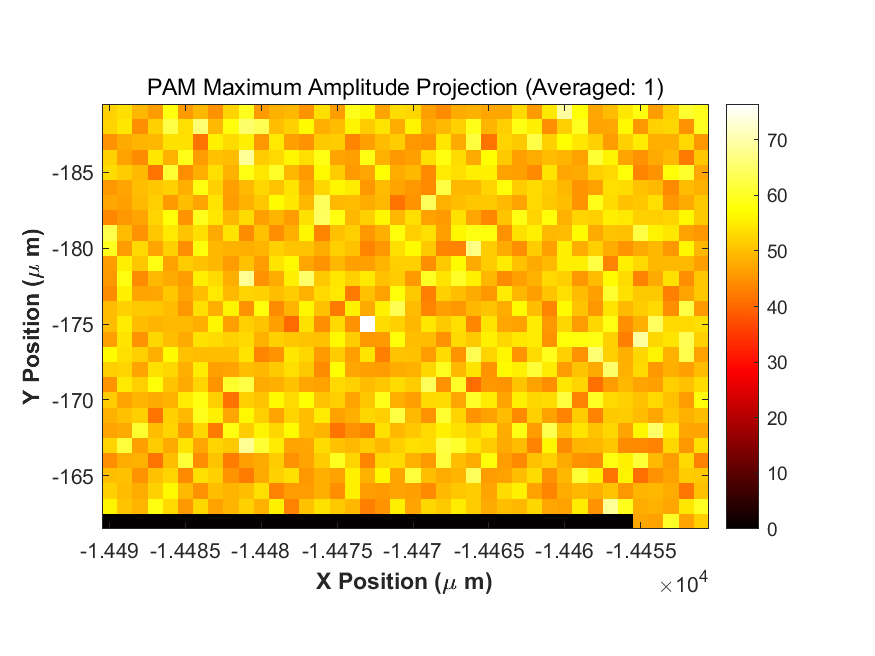
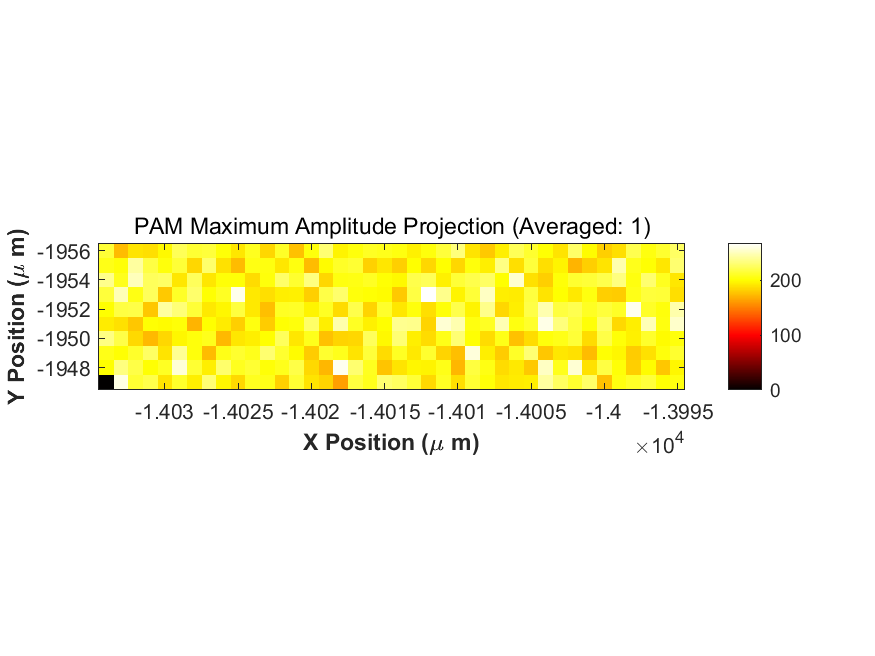
trigger_change_to_1V

diff --git a/MATLAB/data_analysis.m b/MATLAB/data_analysis.m
@@ -1,113 +1,84 @@
 function signalBrowser()
-% 交互式信号浏览工具，通过左右方向键切换100个信号并实时绘图
-
-% ========== 新增：强制设置图形渲染器 ==========
-% 先重置图形设置
+% 交互式信号浏览工具：6子图版（含线性与dB频谱）
+% ========== 环境设置 ==========
 set(0, 'DefaultFigureRenderer', 'painters');
-% 关闭Java加速（部分版本兼容问题）
-com.mathworks.services.Prefs.setBooleanPref('JavaFrameFeature加速', false);
-% =============================================
-
+try
+    com.mathworks.services.Prefs.setBooleanPref('JavaFrameFeature加速', false);
+catch
+end
 clear; close all; clc;
 
 % --------------------- 1. 核心参数设置 ---------------------
 Fs = 2e9;          % 采样率：2 GHz
 T = 1/Fs;          % 采样周期
 
-% --------------------- 2. 从工作区加载 raw_data ---------------------
-% 尝试从基础工作区获取 raw_data 变量
+% --------------------- 2. 加载数据 ---------------------
 try
     raw_data = evalin('base', 'raw_data');
 catch
-    error('在工作区中未找到变量 raw_data。请先加载数据。');
+    error('在工作区中未找到变量 raw_data。');
 end
 
-% 检查维度
-expectedSize = [100, 1, 2048];
-if ~isequal(size(raw_data), expectedSize)
-    error('raw_data 的维度应为 [100, 1, 2048]，但实际为 [%s]', num2str(size(raw_data)));
-end
-
-numSignals = size(raw_data, 1);  % 应为100
+numSignals = size(raw_data, 1);
 allSignals = cell(numSignals, 1);
 for i = 1:numSignals
-    x = squeeze(raw_data(i, 1, :));  % 提取第i个信号，2048x1 uint16
-    x = double(x);                    % 转换为 double
-    x = (x - 32768) / 65536;          % 归一化到约 [-0.5, 0.5]
-    allSignals{i} = x(:);              % 确保为列向量
+    x = squeeze(raw_data(i, 1, :));
+    x = double(x);
+    x = (x - 32768) / 65536; 
+    allSignals{i} = x(:);
 end
-% -----------------------------------------------------------------
 
-% 初始化当前索引
+% --------------------- 3. 图形初始化 ---------------------
 currentIdx = 1;
-
-% ========== 优化：显式设置图形可见性 ==========
-fig = figure('Name', '信号浏览器 (左右键切换)', ...
+fig = figure('Name', '信号浏览器 (左右键切换) - 6子图版', ...
              'NumberTitle', 'off', ...
              'KeyPressFcn', @keyPressCallback, ...
-             'Position', [100, 100, 1200, 800], ...
-             'Visible', 'on', ...  % 强制可见
-             'Renderer', 'painters');  % 强制渲染器
-% =============================================
+             'Position', [50, 50, 1400, 900], ...
+             'Color', 'white');
 
-% 预先创建四个子图的坐标轴句柄，方便更新数据而不重复创建
-ax1 = subplot(2,2,1);
-h1 = plot(NaN, NaN);  % 占位线条
-xlabel('时间 (μs)'); ylabel('幅值'); title('原始时域信号（含直流）'); grid on;
+% 布局改为 3行2列
+% 第一行：时域
+ax1 = subplot(3,2,1); h1 = plot(NaN, NaN); grid on;
+xlabel('时间 (μs)'); ylabel('幅值'); title('原始时域信号');
+ax2 = subplot(3,2,2); h2 = plot(NaN, NaN); grid on;
+xlabel('时间 (μs)'); ylabel('幅值'); title('滤波后时域信号');
 
-ax2 = subplot(2,2,2);
-h2 = plot(NaN, NaN);
-xlabel('时间 (μs)'); ylabel('幅值'); title('滤波后时域信号（无直流）'); grid on;
+% 第二行：线性频域
+ax3 = subplot(3,2,3); h3 = plot(NaN, NaN); grid on;
+xlabel('频率 (MHz)'); ylabel('归一化幅度'); title('原始频谱 (线性)');
+ax4 = subplot(3,2,4); h4 = plot(NaN, NaN); grid on;
+xlabel('频率 (MHz)'); ylabel('归一化幅度'); title('滤波频谱 (线性)');
 
-ax3 = subplot(2,2,3);
-h3 = plot(NaN, NaN);
-xlabel('频率 (MHz)'); ylabel('归一化幅度'); title('原始信号频域（正频率）'); grid on;
+% 第三行：dB 频域 (新增)
+ax5 = subplot(3,2,5); h5 = plot(NaN, NaN); grid on;
+xlabel('频率 (MHz)'); ylabel('幅度 (dB)'); title('原始频谱 (dB)');
+ax6 = subplot(3,2,6); h6 = plot(NaN, NaN); grid on;
+xlabel('频率 (MHz)'); ylabel('幅度 (dB)'); title('滤波频谱 (dB)');
 
-ax4 = subplot(2,2,4);
-h4 = plot(NaN, NaN);
-xlabel('频率 (MHz)'); ylabel('归一化幅度'); title('滤波后信号频域（正频率）'); grid on;
+infoText = uicontrol('Style', 'text', 'Position', [20, 10, 200, 25], ...
+                     'FontSize', 10, 'FontWeight', 'bold');
 
-% 添加一个文本显示当前索引
-infoText = uicontrol('Style', 'text', ...
-                     'String', sprintf('信号 %d / %d', currentIdx, numSignals), ...
-                     'Position', [50, 20, 150, 20], ...
-                     'BackgroundColor', 'white');
-
-% 首次绘制
 updatePlot();
 
-% --------------------- 嵌套函数：键盘回调 ---------------------
+% --------------------- 回调与更新函数 ---------------------
     function keyPressCallback(~, event)
-        switch event.Key
-            case 'leftarrow'
-                if currentIdx > 1
-                    currentIdx = currentIdx - 1;
-                    updatePlot();
-                end
-            case 'rightarrow'
-                if currentIdx < numSignals
-                    currentIdx = currentIdx + 1;
-                    updatePlot();
-                end
+        if strcmp(event.Key, 'leftarrow') && currentIdx > 1
+            currentIdx = currentIdx - 1; updatePlot();
+        elseif strcmp(event.Key, 'rightarrow') && currentIdx < numSignals
+            currentIdx = currentIdx + 1; updatePlot();
         end
     end
 
-% --------------------- 嵌套函数：更新绘图 ---------------------
     function updatePlot()
-        % 获取当前信号
         x = allSignals{currentIdx};
-        x = x(:);  % 确保列向量
         N = length(x);
-        t = (0:N-1)' * T;  % 时间轴列向量
-
-        % 滤除直流
+        t = (0:N-1)' * T;
         x_filtered = x - mean(x);
 
-        % 傅里叶变换（不进行fftshift，只取正频率）
+        % 频谱计算
         X_orig = fft(x);
         X_filt = fft(x_filtered);
-
-        % 生成正频率轴及对应幅度
+        
         if mod(N,2) == 0
             n_pos = 1:N/2+1;
             freq_pos = (0:N/2) * Fs / N;
@@ -115,33 +86,37 @@ updatePlot();
             n_pos = 1:(N+1)/2;
             freq_pos = (0:(N-1)/2) * Fs / N;
         end
-        X_orig_amp = abs(X_orig(n_pos)) / N;
-        X_filt_amp = abs(X_filt(n_pos)) / N;
+        
+        % 线性幅度
+        amp_orig = abs(X_orig(n_pos)) / N;
+        amp_filt = abs(X_filt(n_pos)) / N;
+        
+        % dB 幅度计算：20*log10，防止 log(0)
+        % 0 dB 通常对应归一化幅度 1.0
+        db_orig = 20 * log10(amp_orig + 1e-15); 
+        db_filt = 20 * log10(amp_filt + 1e-15);
 
-        % --- 更新图形数据 ---
-        % 时域原始信号
+        % 更新数据
         set(h1, 'XData', t*1e6, 'YData', x);
-        axis(ax1, 'tight');
-
-        % 时域滤波后信号
         set(h2, 'XData', t*1e6, 'YData', x_filtered);
-        axis(ax2, 'tight');
+        
+        set(h3, 'XData', freq_pos*1e-6, 'YData', amp_orig);
+        set(h4, 'XData', freq_pos*1e-6, 'YData', amp_filt);
+        
+        set(h5, 'XData', freq_pos*1e-6, 'YData', db_orig);
+        set(h6, 'XData', freq_pos*1e-6, 'YData', db_filt);
 
-        % 频域原始信号
-        set(h3, 'XData', freq_pos*1e-6, 'YData', X_orig_amp);
-        xlim(ax3, [0 1000]);  % 固定X轴为0~1000 MHz
-        ylim(ax3, [0 2e-5]);  % ========== 修复：原代码这里写错了，是ax3不是ax4 ==========
+        % 坐标轴控制
+        axis([ax1 ax2], 'tight');
+        xlim([ax3 ax4 ax5 ax6], [0 1000]); % 限制频率范围到 1GHz
+        
+        % 线性频谱纵轴固定 (根据你之前的设置)
+        ylim([ax3 ax4], [0 2e-5]); 
+        
+        % dB 频谱纵轴固定：通常在 -140dB 到 -80dB 左右
+        ylim([ax5 ax6], [-160 -80]); 
 
-        % 频域滤波后信号
-        set(h4, 'XData', freq_pos*1e-6, 'YData', X_filt_amp);
-        xlim(ax4, [0 1000]);
-        ylim(ax4, [0 2e-5]);
-
-        % 更新索引显示
-        set(infoText, 'String', sprintf('信号 %d / %d', currentIdx, numSignals));
-
-        % 刷新图形
+        set(infoText, 'String', sprintf('信号索引: %d / %d', currentIdx, numSignals));
         drawnow;
     end
-
 end

diff --git a/PAM_Main.py b/PAM_Main.py
@@ -10,7 +10,7 @@ import atsapi as ats
 import traceback
 # 扫描开始前
 # 导入模块
-
+import datetime
 from Alazar_imaging.PriorUnifiedStage import PriorUnifiedStage
 from Alazar_imaging.AlazarNPTSystem import AlazarNPTSystem
 from Alazar_imaging.AsyncProgress import progress_manager
@@ -19,21 +19,23 @@ def main():
     # ============================== 1. 参数设置 =================================
     DLL_PATH = r"D:\LJB\PAM\PriorSDK 2.0.0\x64\PriorScientificSDK.dll"
     COM_PORT = "4"
-    save_path = "./75-100-1.mat"
+    
     # 扫描参数
     SCAN_W = 40       # 像素宽
     SCAN_H = 40       # 像素高
     STEP_UM = 1       # 步长 (um)
-    EXPOSURE_MS =  350   # 每个点曝光时间 (位移台参数)
+    EXPOSURE_MS =  2000   # 每个点曝光时间 (位移台参数)
     
     # DAQ 参数
     SAMPLES_REC = 2048
-    RECORDS_BUF = 1024   # 每个Buffer存50个激光脉冲数据 (降低主循环压力)
-    RECORDS_PER_POINT = 1024 # 每个点记录多少个record，在平均的情况下，也不能大于1048832，否则uint32会溢出
-    Buffer_Count = 16   # 用多少个buffer来收集数据，太少了可能双DMA会受限制
+    RECORDS_BUF = 32   # 每个Buffer存50个激光脉冲数据 (降低主循环压力)
+    RECORDS_PER_POINT = 64 # 每个点记录多少个record，在平均的情况下，也不能大于1048832，否则uint32会溢出
+    Buffer_Count = 256   # 用多少个buffer来收集数据，太少了可能双DMA会受限制
     SETTLE_MS = int(EXPOSURE_MS/10)
+
     AVERAGE_ENABLE = True
-    
+    save_path = f"./W({SCAN_W})-H({SCAN_H})-{datetime.datetime.now().strftime('%Y-%m-%d_%H-%M-%S')}.mat"
+
     # 数据量计算与内存使用分析：
     # 1. 基础扫描范围数据量：
     # 20 × 20 (点) × 1024 (Rec/点) × 4096 (Sample/Rec) × 2 (Bytes) ≈ 3.3 GB
@@ -55,7 +57,7 @@ def main():
         stage = PriorUnifiedStage(DLL_PATH, COM_PORT)
         daq = AlazarNPTSystem(systemId=1, boardId=1)
         daq.configure_board() 
-        daq.prepare_acquisition(num_points=SCAN_W*SCAN_H+1,
+        daq.prepare_acquisition(num_points=SCAN_W*SCAN_H,
                                 acq_channel=ats.CHANNEL_A, 
                                 samples_per_record=SAMPLES_REC,
                                 records_per_buffer=RECORDS_BUF,

diff --git a/Alazar_imaging/AlazarNPTSystem.py b/Alazar_imaging/AlazarNPTSystem.py
@@ -22,13 +22,13 @@ class AlazarNPTSystem:
         self.board.setCaptureClock(ats.INTERNAL_CLOCK, ats.SAMPLE_RATE_2000MSPS, ats.CLOCK_EDGE_RISING, 0)
         
         # 通道设置
-        self.board.inputControlEx(ats.CHANNEL_A, ats.DC_COUPLING, ats.INPUT_RANGE_PM_400_MV, ats.IMPEDANCE_50_OHM)
-        self.board.inputControlEx(ats.CHANNEL_B, ats.DC_COUPLING, ats.INPUT_RANGE_PM_400_MV, ats.IMPEDANCE_50_OHM)
+        self.board.inputControlEx(ats.CHANNEL_A, ats.DC_COUPLING, ats.INPUT_RANGE_PM_20_MV, ats.IMPEDANCE_50_OHM)
+        self.board.inputControlEx(ats.CHANNEL_B, ats.DC_COUPLING, ats.INPUT_RANGE_PM_20_MV, ats.IMPEDANCE_50_OHM)
         
         # 触发设置 (使用 Channel A 作为触发源? 还是外部 TTL?)
         # 你的描述是：激光使用内部频率(80K)进行发射,该80K的脉冲也引到trigger
         # 这意味着采集卡应该设置为【外部触发】(External Trigger)
-        self.board.setExternalTrigger(ats.DC_COUPLING, ats.ETR_2V5)
+        self.board.setExternalTrigger(ats.DC_COUPLING, ats.ETR_1V_50OHM)
         
         self.board.setTriggerOperation(ats.TRIG_ENGINE_OP_J,
                                        ats.TRIG_ENGINE_J,

diff --git a/MATLAB/PAM_Reconstruction.m b/MATLAB/PAM_Reconstruction.m
@@ -4,7 +4,7 @@
 clear; clc; close all;
 set(0, 'DefaultFigureVisible', 'off'); % 禁止弹出窗口，防止远程报错
 %% 1. 加载数据
-filepath = 'D:\LJB\alazar_DAQ\Photoacoustic-Microscopy\75-100-1.mat';
+filepath = 'W(40)-H(40)-2026-03-10_20-32-39.mat';
 fprintf('⏳ 正在加载文件: %s ...\n', filepath);
 data = load(filepath);
 
